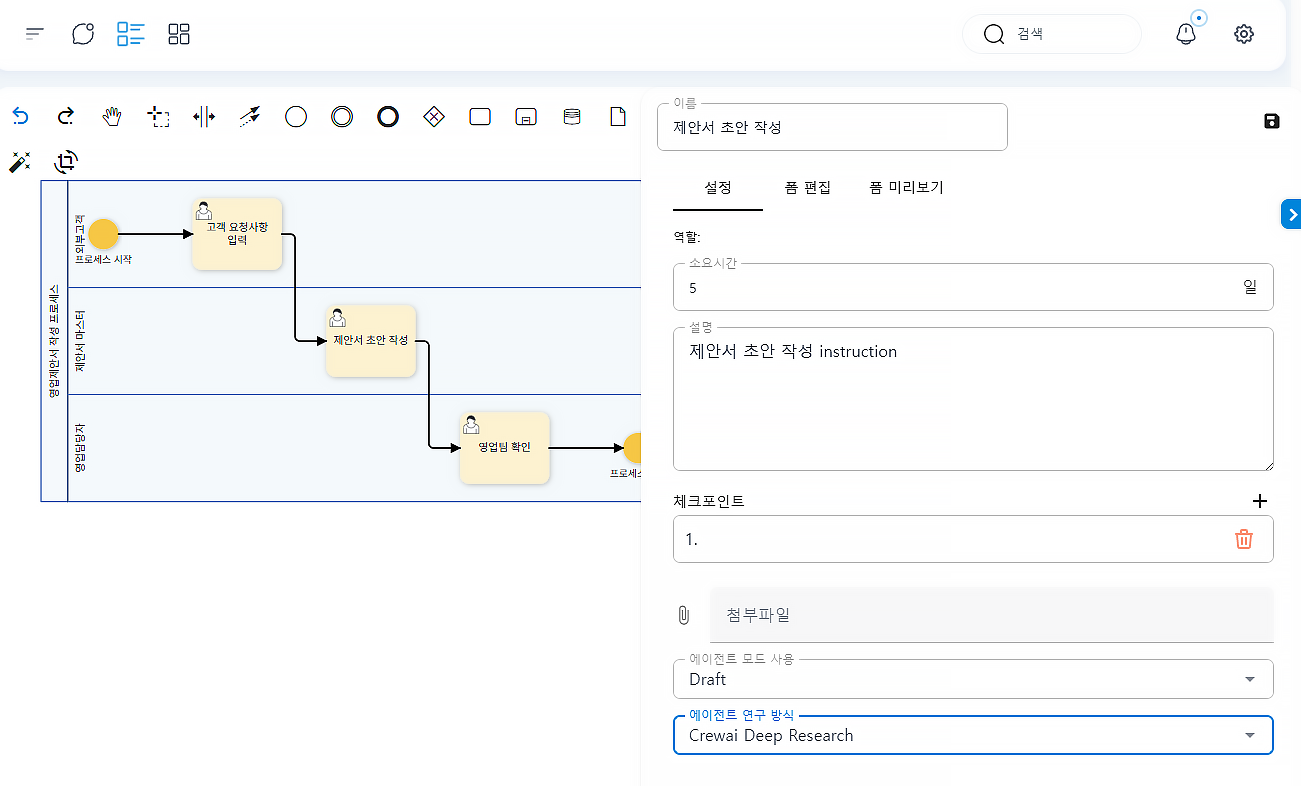
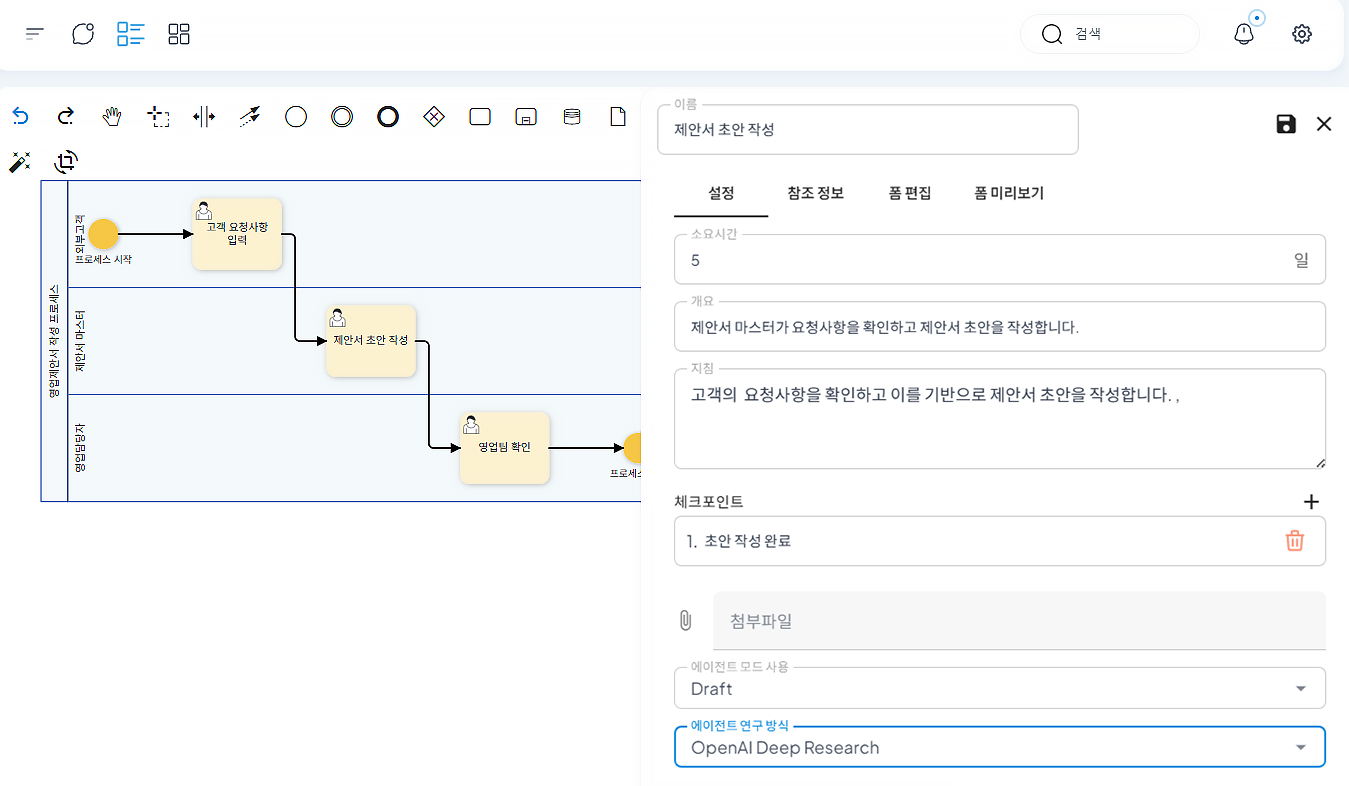
튜토리얼lv2 이미지 영문화 및 UI변경된 한글 이미지 교체, 설명 수정

diff --git a/content/en/tutorial/tutorial-lv2.md b/content/en/tutorial/tutorial-lv2.md
@@ -13,29 +13,28 @@ The customer's requirements are reviewed and the AI agent generates a proposal d
 
 ### Agent Registration
 
-1. Click the organization chart icon in the definition management.
+1. Click the organization chart icon next to the agent.
 
-![](../../../uengine-image/process-gpt/tutorial/lv2-1.png)
+![](../../../uengine-image/process-gpt/en/tutorial/lv2-1.png)
 <br>
 
 2. Register the sales team in the organization chart, and create a new AI agent specialized for proposal writing.
 
-![](../../../uengine-image/process-gpt/tutorial/lv2-2.png)
+![](../../../uengine-image/process-gpt/en/tutorial/lv2-2.png)
 
-![](../../../uengine-image/process-gpt/tutorial/lv2-3.png)
+![](../../../uengine-image/process-gpt/en/tutorial/lv2-3.png)
 <br>
 
 3. Describe the role, goal, and persona for the specialized agent registration for proposal writing, and grant the tools needed for proposal writing.
 
-![](../../../uengine-image/process-gpt/tutorial/lv2-4.png)
+![](../../../uengine-image/process-gpt/en/tutorial/lv2-4.png)
 <br>
 
 
 ### Agent Training
 
-1. Click the chat window at the top of the screen to activate the learning mode, and then train the created proposal master agent with the company knowledge needed for proposal writing.
-
-![](../../../uengine-image/process-gpt/tutorial/lv2-5.png)
+1. Click the registered proposal master agent, and then train the created proposal master agent with the company knowledge needed for proposal writing in the learning mode chat window.
+![](../../../uengine-image/process-gpt/en/tutorial/lv2-5.png)
 <br>
 
 
@@ -43,19 +42,19 @@ The customer's requirements are reviewed and the AI agent generates a proposal d
 
 1. Create a process. The process uses the “proposal master” as the proposal writing agent.
 
-![](../../../uengine-image/process-gpt/tutorial/lv2-6.png)
+![](../../../uengine-image/process-gpt/en/tutorial/lv2-6.png)
 <br>
 
 2. Edit the form of the proposal draft writing work item. Select “Draft” for agent mode usage and “Crew ai Deep Research” for agent research method in the first setting tab, and then save.
 
-![](../../../uengine-image/process-gpt/tutorial/lv2-7.png)
+![](../../../uengine-image/process-gpt/en/tutorial/lv2-7.png)
 <br>
 
 3. Click the right blue box in the form editing tab to select 1 column layout and select the report form to contain the proposal. You can freely select the layout and configuration according to your purpose.
 
-![](../../../uengine-image/process-gpt/tutorial/lv2-8.png)
+![](../../../uengine-image/process-gpt/en/tutorial/lv2-8.png)
 
-![](../../../uengine-image/process-gpt/tutorial/lv2-9.png)
+![](../../../uengine-image/process-gpt/en/tutorial/lv2-9.png)
 <br>
 
 
@@ -63,17 +62,17 @@ The customer's requirements are reviewed and the AI agent generates a proposal d
 
 1. When the customer requests, the process is executed and the agent writes a proposal draft. Click the “Assign to Agent” to have the set agent write the proposal draft.
 
-![](../../../uengine-image/process-gpt/tutorial/lv2-10.png)
+![](../../../uengine-image/process-gpt/en/tutorial/lv2-10.png)
 
-![](../../../uengine-image/process-gpt/tutorial/lv2-11.png)
+![](../../../uengine-image/process-gpt/en/tutorial/lv2-11.png)
 <br>
 
 2. You can see that the learned content is reflected in the proposal written by the agent.
 
-![](../../../uengine-image/process-gpt/tutorial/lv2-12.png)
+![](../../../uengine-image/process-gpt/en/tutorial/lv2-12.png)
 <br>
 
 3. When the written proposal draft is reviewed by the sales team members and then passed to the customer, the process is completed.
 
-![](../../../uengine-image/process-gpt/tutorial/lv2-13.png)
+![](../../../uengine-image/process-gpt/en/tutorial/lv2-13.png)
 

diff --git a/content/ko/tutorial/tutorial-lv2.md b/content/ko/tutorial/tutorial-lv2.md
@@ -13,7 +13,7 @@ sidebar: 'getting-started'
 
 ### 에이전트 등록
 
-1. 정의 관리에서 조직도 아이콘을 클릭합니다.
+1. 에이전트 옆에 있는 조직도 아이콘을 클릭합니다.
 
 ![](../../../uengine-image/process-gpt/tutorial/lv2-1.png)
 <br>
@@ -33,7 +33,7 @@ sidebar: 'getting-started'
 
 ### 에이전트 교육
 
-1. 화면 상단의 채팅창을 클릭하여 학습모드를 활성화 한 후, 생성한 제안서 마스터 에이전트에게 제안서 작성에 필요한 사내 지식을 학습시킵니다.
+1. 등록된 제안서 마스터 에이전트를 클릭한 후 학습모드 채팅창에서 생성한 제안서 마스터 에이전트에게 제안서 작성에 필요한 사내 지식을 학습시킵니다.
 
 ![](../../../uengine-image/process-gpt/tutorial/lv2-5.png)
 <br>
